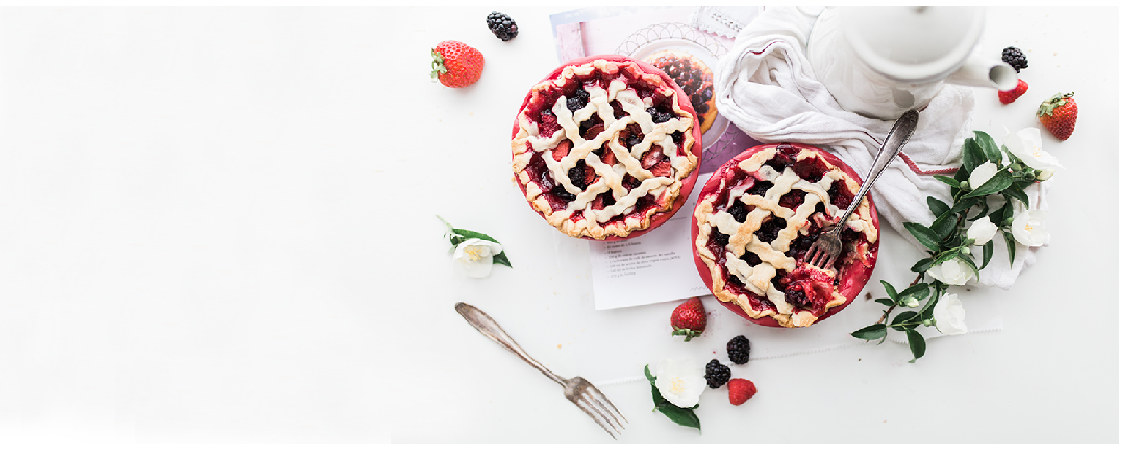
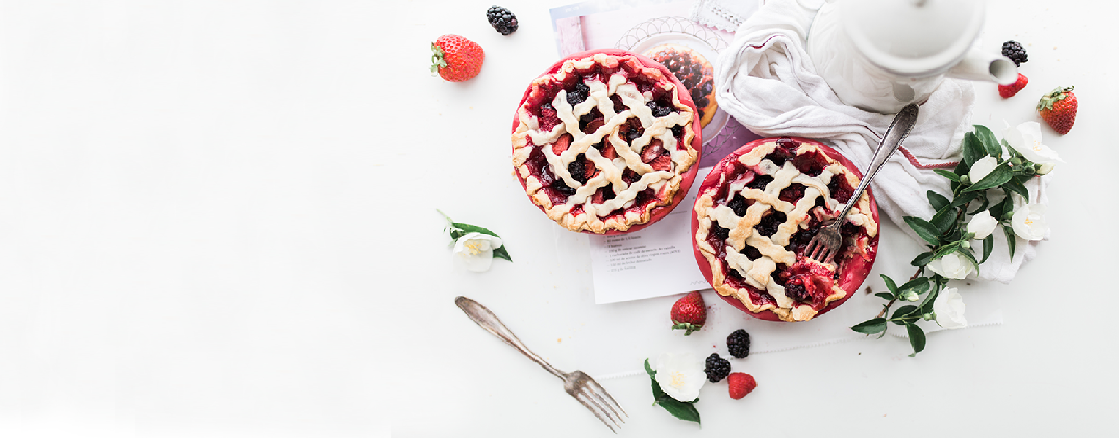
Block 3 done

diff --git a/styles/styles.css b/styles/styles.css
@@ -1,9 +1,10 @@
+@import "//netdna.bootstrapcdn.com/font-awesome/3.0/css/font-awesome.css";
 body {
     width: 1440px;
     height: 5750px;
     background-color: #eaeaea;
 }
-.base {
+.header {
     width: 1120px;
     height: 123px;
     box-shadow: 0 0 13px rgba(11, 12, 12, 0.15);
@@ -14,11 +15,81 @@ body {
     top: 10px;
     left: 150px;
     position: absolute;
-
+}
+.LogoSmall{
+    width: 87px;
+    height: 36px;
+    position: absolute;
+    top: 45px;
+    left: 95px;
+}
+.text0-1, .text0-2, .text0-3, .text0-4, .text0-5{
+    height: 14px;
+    color: #000000;
+    font-family: "Josefin Sans";
+    font-size: 16px;
+    font-weight: 300;
+    font-style: normal;
+    letter-spacing: normal;
+    line-height: normal;
+    text-align: left;
+    text-transform: uppercase;
+    position: absolute;
+    top: 57px;
+}
+.text0-1{
+    width: 10px;
+    left: 255px;
+}
+.text0-2{
+    width: 10px;
+    left: 335px;
+}
+.text0-3{
+    width: 150px;
+    left: 425px;
+}
+.text0-4{
+    width: 10px;
+    left: 605px;
+}
+.text0-5{
+    width: 140px;
+    left: 700px;
+}
+.find::-webkit-input-placeholder {
+    font-family: FontAwesome, serif;
+    color: #000000;
+    font-size: 12px;
+    font-weight: 100;
+    font-style: normal;
+    letter-spacing: normal;
+    line-height: normal;
+    text-transform: uppercase;
+    text-align: center;
+    top: 30%;
+    opacity: 75%;
+    transform: skew(0deg);
+}
+.find{
+    color: #000000;
+    font-family: "Josefin Sans", serif;
+    font-size: 18px;
+    font-style: normal;
+    letter-spacing: normal;
+    line-height: normal;
+    text-align: left;
+    width: 162px;
+    height: 28px;
+    border: 1px solid #c2c2c2;
+    position: absolute;
+    top: 50px;
+    left: 865px;
+    vertical-align: center;
 }
 /* --------------------------------------------- */
 .block1 {
-    width: 1120px;
+    width: 1119px;
     height: 438px;
     box-shadow: 0 0 13px rgba(0, 0, 0, 0.15);
     background-color: #ffffff;
@@ -27,9 +98,9 @@ body {
     left: 150px;
 }
 .Photo1-1{
-    width: 1130px;
-    height: 450px;
-    position: relative;
+    width: 1128px;
+    height: 449px;
+    position: absolute;
     top: -5px;
 }
 .Logo1 {
@@ -79,7 +150,7 @@ body {
     color: #000000;
     font-family: "Josefin Sans", serif;
     font-size: 12px;
-    font-weight: 300;
+    font-weight: 400;
     font-style: normal;
     letter-spacing: normal;
     line-height: normal;
@@ -459,7 +530,7 @@ body {
     color: #000000;
     font-family: "Josefin Sans", serif;
     font-size: 12px;
-    font-weight: 300;
+    font-weight: 400;
     font-style: normal;
     letter-spacing: normal;
     line-height: normal;
@@ -523,9 +594,9 @@ body {
     height: 28px;
     border: 1px solid #c2c2c2;
     color: #000000;
-    font-family: "Josefin Sans";
+    font-family: "Josefin Sans", serif;
     font-size: 12px;
-    font-weight: 300;
+    font-weight: 500;
     font-style: normal;
     letter-spacing: normal;
     line-height: normal;
@@ -586,6 +657,141 @@ body {
     top: 1770px;
     left: 755px;
     position: absolute;
+}
+.bar5-1{
+    width: 440px;
+    height: 2px;
+    background-color: #555555;
+    opacity: 0.2;
+    position: absolute;
+    top: 50px;
+    left: 35px;
+}
+.bar5-2{
+    width: 291px;
+    height: 2px;
+    background-color: #555555;
+    opacity: 0.2;
+    position: absolute;
+    top: 175px;
+    left: 180px;
+}
+.text5-1{
+    width: 150px;
+    height: 24px;
+    color: #000000;
+    font-family: "Josefin Sans";
+    font-size: 24px;
+    font-weight: 700;
+    font-style: normal;
+    letter-spacing: normal;
+    line-height: normal;
+    text-align: left;
+    position: absolute;
+    top: 90px;
+    left: 180px;
+}
+.text5-2{
+    width: 150px;
+    height: 14px;
+    color: #000000;
+    font-family: "Josefin Sans";
+    font-size: 16px;
+    font-weight: 300;
+    font-style: normal;
+    letter-spacing: normal;
+    line-height: normal;
+    text-align: left;
+    position: absolute;
+    top: 120px;
+    left: 180px;
+}
+.text5-3{
+    width: 150px;
+    height: 17px;
+    color: #000000;
+    font-family: "Josefin Sans";
+    font-size: 20px;
+    font-weight: 400;
+    font-style: normal;
+    letter-spacing: normal;
+    line-height: normal;
+    text-align: left;
+    position: absolute;
+    top: 205px;
+    left: 180px;
+    transform: skew(-5deg);
+}
+.text5-4{
+    width: 288px;
+    height: 148px;
+    color: #000000;
+    font-family: "Josefin Sans - Light Italic", serif;
+    font-size: 14px;
+    font-weight: 400;
+    font-style: normal;
+    letter-spacing: normal;
+    line-height: normal;
+    text-align: left;
+    position: absolute;
+    top: 255px;
+    left: 180px;
+    transform: skew(-2deg);
+}
+.text5-5{
+    width: 58px;
+    height: 17px;
+    color: #000000;
+    font-family: "Josefin Sans", serif;
+    font-size: 20px;
+    font-weight: 400;
+    font-style: normal;
+    letter-spacing: normal;
+    line-height: normal;
+    text-align: left;
+    transform: skew(-5deg);
+    position: absolute;
+    top: 20px;
+    left: 45px;
+}
+.Photo5-1{
+    width: 128px;
+    height: 128px;
+    position: absolute;
+    top: 75px;
+    left: 30px;
+}
+.Photo5-2{
+    position: absolute;
+    top: 425px;
+    left: 315px;
+}
+.google5, .facebook5, .twitter5, .pinterest5{
+    width: 20px;
+    height: 15px;
+    opacity: 0.5;
+    color: #555555;
+    font-family: "Font Awesome", serif;
+    font-size: 16px;
+    font-weight: 400;
+    font-style: normal;
+    letter-spacing: normal;
+    line-height: normal;
+    text-align: left;
+    position: absolute;
+    top: 145px;
+}
+.google5{
+    left: 180px;
+}
+.facebook5{
+    left: 210px;
+}
+.twitter5{
+    left: 230px;
+}
+.pinterest5{
+    left: 255px;
 }
 /* ====================IVAN PART============== */
 .block6{
@@ -1454,7 +1660,7 @@ body {
     height: 9px;
     color: #555555;
     font-family: "Font Awesome";
-    font-size: -14px;
+    font-size: 14px;
     font-weight: 400;
     text-align: left;
     font-style: normal;
